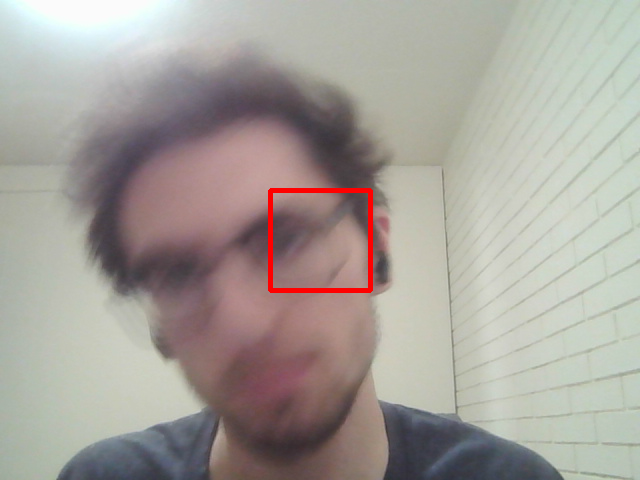
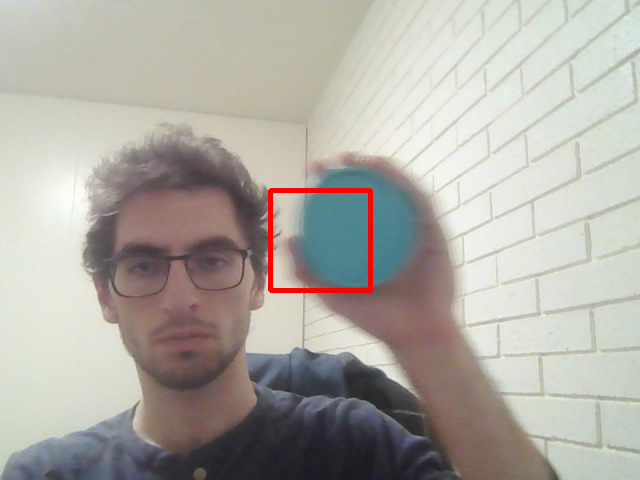
interesting progress

diff --git a/new_naive.py b/new_naive.py
@@ -1,0 +1,156 @@
+import cv2
+import time
+import numpy as np
+import matplotlib.pyplot as plt
+
+DEBUG_MODE = False
+
+# init rect
+RECT_W = 100
+RECT_H = 100
+# RECT_Vx = 10
+# RECT_Vy = 10
+factor = 20
+
+# initialize the capture object
+cap = cv2.VideoCapture(0)
+FRAME_W = cap.get(cv2.CAP_PROP_FRAME_WIDTH) 
+FRAME_H = cap.get(cv2.CAP_PROP_FRAME_HEIGHT) 
+
+# create a window
+cv2.namedWindow("window", cv2.WINDOW_NORMAL)
+
+# measure FPS
+last_frame_time = 0
+curr_frame_time = 0
+frame_count = 0
+fps = 0
+font = cv2.FONT_HERSHEY_SIMPLEX
+
+# start rectangle at the center
+center_tlc_x = int(FRAME_W/2 - RECT_W/2)
+center_tlc_y = int(FRAME_H/2 - RECT_H/2)
+center_brc_x = int(FRAME_W/2 + RECT_W/2)
+center_brc_y = int(FRAME_H/2 + RECT_H/2)
+start_point = np.array([center_tlc_x, center_tlc_y])
+end_point = np.array([center_brc_x, center_brc_y])
+
+start_tracking = False
+
+# try to read a frame
+ret,img = cap.read()
+if not ret:
+    raise RuntimeError("failed to read frame")
+
+# flip horizontally
+img = cv2.flip(img,1)
+last_rect_px = img[start_point[1]:end_point[1],start_point[0]:end_point[0]]
+
+l1 = np.ones(9)*1e10
+dirs = np.array([[-1,-1],[0,-1],[1,-1],[-1,0],[0,0],[1,0],[-1,1],[0,1],[1,1]])
+
+def show_patches():
+    fig,axs = plt.subplot_mosaic([['last','[-1 -1]','[ 0 -1]','[ 1 -1]'],
+                                   ['last','[-1  0]','[0 0]','[1 0]'],
+                                   ['last','[-1  1]','[0 1]','[1 1]']],figsize=(6,6))
+    for dir in dirs:
+        img = cv2.imread("patch"+str(dir)+".png")
+        axs[str(dir)].imshow(cv2.cvtColor(img, cv2.COLOR_BGR2RGB))
+    img = cv2.imread("last.png")
+    axs['last'].imshow(cv2.cvtColor(img, cv2.COLOR_BGR2RGB))
+    plt.show()
+
+sx, sy = np.meshgrid(np.arange(-15,15+1),np.arange(-15,15+1))
+
+# start loop
+while True:
+    # try to read a frame
+    ret,img = cap.read()
+    if not ret:
+        raise RuntimeError("failed to read frame")
+
+    # flip horizontally
+    img = cv2.flip(img,1)
+    curr_rect_px = img[start_point[1]:end_point[1],start_point[0]:end_point[0]]
+
+    # === Rectangle tracking update ===
+    # update position
+    if start_tracking:
+        # l1 = np.ones(9)*1e9
+        l1 = np.zeros((sy.shape[0],sx.shape[1]))
+        for i,(xr,yr) in enumerate(zip(sx,sy)):
+            # get the columns of xr and yr
+            for j,(xc,yc) in enumerate(zip(xr,yr)):
+                pred_px = img[start_point[1]+yc:end_point[1]+yc,start_point[0]+xc:end_point[0]+xc]
+                l1[i,j] = np.sum(np.abs(pred_px.astype(int)-last_rect_px.astype(int)))
+                # # get the adjacent pixels absolute difference with last square
+                # if start_point[1]+dir[1]*RECT_W/factor <= 0 or end_point[1]+dir[1]*RECT_W/factor >= FRAME_H or start_point[0]+dir[0]*RECT_W/factor <= 0 or end_point[0]+dir[0]*RECT_W/factor >= FRAME_W:
+                #     print("BAD")
+                # else:
+                #     # print(start_point[1],dir[1]*RECT_W/2)
+                #     # print(start_point[1]+dir[1]*RECT_W/2,end_point[1]+dir[1]*RECT_W/2,start_point[0]+dir[0]*RECT_W/2,end_point[0]+dir[0]*RECT_W/2)
+                #     pred_px = img[start_point[1]+dir[1]*RECT_W//factor:end_point[1]+dir[1]*RECT_W//factor,start_point[0]+dir[0]*RECT_W//factor:end_point[0]+dir[0]*RECT_W//factor]
+                #     l1[i] = np.sum(np.abs(pred_px.astype(int)-last_rect_px.astype(int)))
+                #     if DEBUG_MODE:
+                #         cv2.imwrite("patch"+str(dir)+".png",pred_px)
+        if DEBUG_MODE:
+            for idx in np.argsort(l1):
+                print(dirs[idx],l1[idx])
+            print("===")
+            show_patches()
+        closest = np.argmin(l1)
+        row = closest % 31
+        col = closest //31
+        # print(row,col)
+        # print(dirs[closest])
+        start_point[0] += row-15#dirs[closest][0]*RECT_W/factor
+        start_point[1] += col-15#dirs[closest][1]*RECT_W/factor
+        end_point[0] += row-15#dirs[closest][0]*RECT_W/factor
+        end_point[1] += col-15#dirs[closest][1]*RECT_W/factor
+    else:
+        min_noise = np.sum(np.abs(curr_rect_px-last_rect_px))
+
+    # start_point[0] += RECT_Vx
+    # start_point[1] += RECT_Vy
+    # end_point[0] += RECT_Vx
+    # end_point[1] += RECT_Vy
+    # check collision
+    if start_point[0] <= 0: # left
+        start_point[0] = 0
+        end_point[0] = RECT_W
+    if start_point[1] <= 0: # top
+        start_point[1] = 0
+        end_point[1] = RECT_H
+    if end_point[0] >= FRAME_W: # right
+        end_point[0] = FRAME_W
+        start_point[0] = FRAME_W - RECT_W
+    if end_point[1] >= FRAME_H: # bottom
+        end_point[1] = FRAME_H
+        start_point[1] = FRAME_H - RECT_H
+   
+    last_rect_px = img[start_point[1]:end_point[1],start_point[0]:end_point[0]]
+    cv2.imwrite("last.png",last_rect_px)
+    cv2.rectangle(img, start_point, end_point, (0,0,255), 4)
+  
+    # calculate the fps
+    frame_count += 1
+    curr_frame_time = time.time()
+    diff = curr_frame_time - last_frame_time
+    if diff > 1:
+        fps = str(round(frame_count/(diff),2))
+        last_frame_time = curr_frame_time
+        frame_count = 0
+
+    # img, text, location of BLC, font, size, color, thickness, linetype
+    cv2.putText(img, fps+", "+str(int(FRAME_W))+"x"+str(int(FRAME_H)), (7, 30), font, 1, (100, 255, 0), 1, cv2.LINE_AA)
+    
+    cv2.imshow('window',img)
+
+    # get key
+    k = cv2.waitKey(1)
+
+    if k == ord('q'):
+        cv2.destroyAllWindows()
+        break
+    elif k == ord('s'):
+        start_tracking = True

diff --git a/naive_vis.py b/naive_vis.py
@@ -11,7 +11,6 @@ RECT_H = 100
 # RECT_Vx = 10
 # RECT_Vy = 10
 factor = 10
-sx, sy = np.meshgrid(np.arange(-50,51),np.arange(-50,51))
 
 # initialize the capture object
 cap = cv2.VideoCapture(0)
@@ -35,6 +34,9 @@ center_brc_x = int(FRAME_W/2 + RECT_W/2)
 center_brc_y = int(FRAME_H/2 + RECT_H/2)
 start_point = np.array([center_tlc_x, center_tlc_y])
 end_point = np.array([center_brc_x, center_brc_y])
+
+# sx, sy = np.meshgrid(np.arange(-start_point[0],start_point[0]+1),np.arange(-start_point[1],start_point[1]+1))
+sx, sy = np.meshgrid(np.arange(-50,50+1),np.arange(-50,50+1))
 
 start_tracking = False
 
@@ -74,11 +76,21 @@ while True:
     # === Rectangle tracking update ===
     # update position
     if start_tracking:
-        l1 = np.zeros((sx.shape[1],sy.shape[0]))
+        l1 = np.zeros((sy.shape[0],sx.shape[1]))
+        print(l1.shape)
+        # get the rows of sx and sy
         for i,(xr,yr) in enumerate(zip(sx,sy)):
+            # get the columns of xr and yr
             for j,(xc,yc) in enumerate(zip(xr,yr)):
-                pred_px = img[start_point[1]+yc:end_point[1]+yc,start_point[0]+xc:end_point[0]+xc]
-                l1[i,j] = np.sum(np.abs(pred_px.astype(int)-last_rect_px.astype(int)))
+                try:
+                    pred_px = img[start_point[1]+yc:end_point[1]+yc,start_point[0]+xc:end_point[0]+xc]
+                    l1[i,j] = np.sum(np.abs(pred_px.astype(int)-last_rect_px.astype(int)))
+                except:
+                    print(start_point,end_point)
+                    print(i,j,xc,yc)
+                    print(pred_px.shape)
+                    print(last_rect_px.shape)
+                    exit()
         cv2.rectangle(img, start_point, end_point, (0,0,255), 4)
         cv2.imwrite("curr.png",img)
         cv2.imwrite("last.png",last_img)
@@ -88,11 +100,18 @@ while True:
         ax[0].set_yticks([0,50,100])
         ax[0].set_xticklabels([-50,0,50])
         ax[0].set_yticklabels([-50,0,50])
+        # bar = ax[0].imshow(l1,extent=[-50+320, 50+320, -50+240, 50+240])
+        # ax[0].set_xticks([0,320,640])
+        # ax[0].set_yticks([0,240,480])
+        # ax[0].set_xticklabels([-320,0,320])
+        # ax[0].set_yticklabels([-240,0,240])
         ax[0].grid()
         ax[1].imshow(cv2.cvtColor(last_img, cv2.COLOR_BGR2RGB))
+        ax[1].set_title("last frame")
         ax[2].imshow(cv2.cvtColor(img, cv2.COLOR_BGR2RGB))
+        ax[2].set_title("current frame")
         
-        plt.colorbar(bar)
+        # plt.colorbar(bar)
         plt.show()
         start_tracking = False
     
